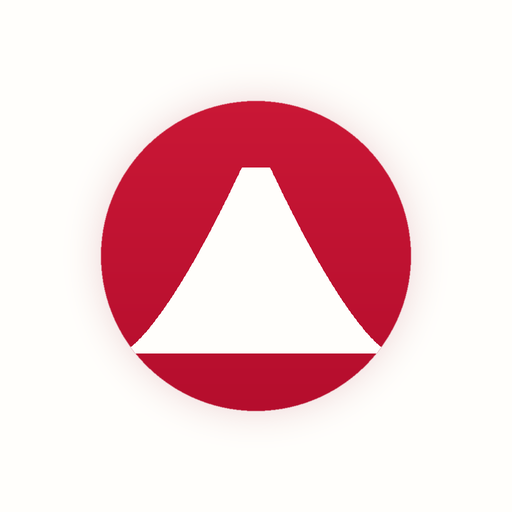
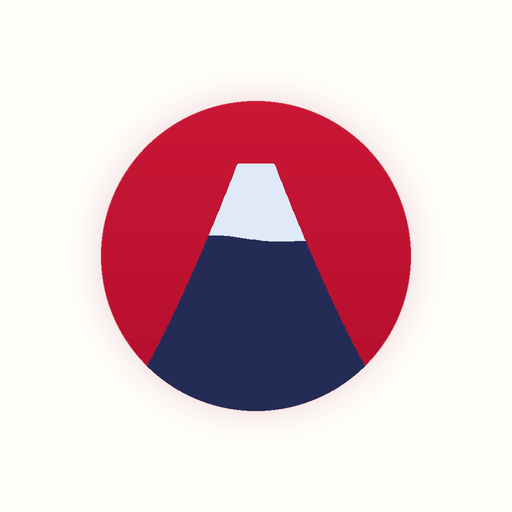
Page « To-do Selma » et icône au Fuji indigo
selma.html : les 10 billets attendus, repris automatiquement de
data.js, et les 12 points restés flous dans le carnet de route, en
oui / non / je ne sais pas avec un mot libre. Tout s'enregistre sur
son téléphone au fil de l'eau ; un bouton compose le récapitulatif
et ouvre le partage iOS — rien ne part sans son geste, et aucune
adresse n'est inscrite dans le dépôt.

Icône : le mont indigo et sa calotte, comme le bandeau du site.

Changed region(s): [[0.25, 0.3125, 0.75, 0.8125]]

diff --git a/selma.html b/selma.html
@@ -1,0 +1,276 @@
+<!doctype html>
+<html lang="fr">
+<head>
+<meta charset="utf-8">
+<meta name="viewport" content="width=device-width, initial-scale=1, viewport-fit=cover">
+<meta name="theme-color" content="#2C3A63" media="(prefers-color-scheme: light)">
+<meta name="theme-color" content="#141C33" media="(prefers-color-scheme: dark)">
+<title>To-do Selma · Japon 2026</title>
+<link rel="apple-touch-icon" href="icon-192.png"><link rel="icon" href="icon-192.png">
+<link rel="preconnect" href="https://fonts.googleapis.com">
+<link rel="preconnect" href="https://fonts.gstatic.com" crossorigin>
+<link href="https://fonts.googleapis.com/css2?family=Shippori+Mincho:wght@600;700&family=Zen+Kaku+Gothic+New:wght@400;500;700&display=swap" rel="stylesheet">
+<style>
+:root{
+  --momiji:#D2522F; --kaki:#E07A3E; --kin:#E0A944; --ai:#2C3A63; --ai2:#44548A;
+  --matcha:#6F9160; --sakura:#E79BB0;
+  --bg:#FBF6F0; --bg2:#F3EADF; --paper:#FFF; --paper2:#FFFCF8;
+  --ink:#2B2320; --mute:#8C8077; --line:#EDE2D6; --line2:#F5EDE3;
+  --sh:0 1px 2px rgba(74,48,28,.05), 0 6px 18px -10px rgba(74,48,28,.20);
+  --serif:"Shippori Mincho","Hiragino Mincho ProN",Georgia,serif;
+  --sans:"Zen Kaku Gothic New",-apple-system,"Helvetica Neue",Arial,sans-serif;
+  --safe-t:env(safe-area-inset-top,0px); --safe-b:env(safe-area-inset-bottom,0px);
+  --ease:cubic-bezier(.22,.92,.30,1);
+}
+@media (prefers-color-scheme:dark){:root{
+  --bg:#14100E; --bg2:#1C1613; --paper:#211A17; --paper2:#271F1A;
+  --ink:#F2E9E1; --mute:#A3948A; --line:#352A24; --line2:#2A211C;
+  --ai:#3C4C82; --ai2:#5465A2; --momiji:#E4693F; --kin:#E8B757; --matcha:#8BAC7A;
+  --sh:0 1px 2px rgba(0,0,0,.45), 0 6px 18px -10px rgba(0,0,0,.6);
+}}
+*{box-sizing:border-box;-webkit-tap-highlight-color:transparent}
+html,body{margin:0;min-height:100%}
+body{background:var(--bg);background-image:radial-gradient(1100px 520px at 50% -8%,var(--bg2),transparent 70%);
+  background-attachment:fixed;color:var(--ink);font-family:var(--sans);font-size:16px;line-height:1.5;
+  -webkit-font-smoothing:antialiased}
+h1,h2,h3{margin:0}
+.top{position:relative;overflow:hidden;padding:calc(var(--safe-t) + 30px) 22px 70px;color:#fff;
+  background:linear-gradient(155deg,#2C3A63 0%,#3C3C6E 42%,#7A3B55 100%)}
+@media (prefers-color-scheme:dark){.top{background:linear-gradient(155deg,#151D38 0%,#241F44 45%,#4A2437 100%)}}
+.top .glow{position:absolute;width:300px;height:300px;right:-110px;top:-130px;border-radius:50%;
+  background:radial-gradient(circle,#E8853C 0%,transparent 68%);opacity:.6}
+.top .in{position:relative;z-index:2;max-width:620px;margin:0 auto}
+.top h1{font-family:var(--serif);font-weight:700;font-size:clamp(27px,8vw,34px);line-height:1.1}
+.top p{margin:7px 0 0;opacity:.82;font-size:14px}
+.fuji{position:absolute;left:-1px;right:-1px;bottom:-1px;width:calc(100% + 2px);height:70px;display:block;z-index:1}
+.fuji .m{fill:var(--bg)} .fuji .n{fill:#D5E3F6}
+.fuji .r{fill:none;stroke:rgba(255,255,255,.22);stroke-width:1.4}
+main{position:relative;z-index:1;padding:4px 18px calc(110px + var(--safe-b));max-width:620px;margin:0 auto}
+.intro{font-size:14.5px;color:var(--mute);margin:18px 2px 20px}
+.intro b{color:var(--ink);font-weight:700}
+.jauge{display:flex;align-items:center;gap:12px;background:var(--paper);border:1px solid var(--line);
+  border-radius:18px;padding:14px 16px;margin:0 0 24px;box-shadow:var(--sh);font-size:13.5px;color:var(--mute)}
+.jauge .barre{flex:1;height:8px;border-radius:99px;background:var(--line2);overflow:hidden}
+.jauge .barre i{display:block;height:100%;border-radius:99px;width:0;
+  background:linear-gradient(90deg,var(--kin),var(--matcha));transition:width .5s var(--ease)}
+.jauge b{color:var(--ink);font-weight:700}
+h2.sec{display:flex;align-items:center;gap:11px;font-family:var(--serif);font-size:23px;font-weight:700;margin:30px 2px 4px}
+.sceau{flex:none;width:34px;height:34px;border-radius:11px;display:grid;place-items:center;
+  background:color-mix(in srgb,currentColor 14%,transparent);
+  box-shadow:inset 0 0 0 1px color-mix(in srgb,currentColor 18%,transparent)}
+.sceau svg{width:19px;height:19px;display:block}
+.sceau.s-bil{color:var(--kaki)} .sceau.s-pts{color:var(--ai2)}
+.sub{color:var(--mute);font-size:13.5px;margin:0 2px 16px}
+.carte{background:var(--paper);border:1px solid var(--line);border-radius:20px;padding:15px 17px;
+  margin-bottom:11px;box-shadow:var(--sh)}
+.carte.fait{border-color:color-mix(in srgb,var(--matcha) 42%,transparent);
+  background:color-mix(in srgb,var(--matcha) 6%,var(--paper))}
+.carte h3{font-size:15.5px;font-weight:700;line-height:1.35}
+.carte .quand{font-size:12.5px;color:var(--mute);margin-top:3px}
+.carte .pourquoi{font-size:13px;color:var(--mute);margin-top:7px;line-height:1.45}
+.choix{display:flex;gap:7px;flex-wrap:wrap;margin-top:12px}
+.choix button{font:600 13.5px var(--sans);padding:9px 15px;border-radius:999px;cursor:pointer;
+  border:1px solid var(--line);background:var(--paper2);color:var(--mute);transition:all .18s var(--ease)}
+.choix button:active{transform:scale(.94)}
+.choix button[aria-pressed="true"]{color:#fff;border-color:transparent}
+.choix button[data-v="oui"][aria-pressed="true"]{background:linear-gradient(135deg,var(--matcha),#8FAE7C)}
+.choix button[data-v="non"][aria-pressed="true"]{background:linear-gradient(135deg,var(--momiji),var(--kaki))}
+.choix button[data-v="?"][aria-pressed="true"]{background:linear-gradient(135deg,var(--ai),var(--ai2))}
+textarea{width:100%;margin-top:10px;font:400 13.5px/1.5 var(--sans);color:var(--ink);background:var(--paper2);
+  border:1px solid var(--line);border-radius:13px;padding:10px 12px;resize:vertical;min-height:40px}
+textarea::placeholder{color:var(--mute)}
+textarea:focus{outline:2px solid color-mix(in srgb,var(--ai2) 45%,transparent);outline-offset:1px}
+.barreBas{position:fixed;left:0;right:0;bottom:0;z-index:20;padding:12px 18px calc(12px + var(--safe-b));
+  background:color-mix(in srgb,var(--bg) 86%,transparent);backdrop-filter:blur(16px);
+  -webkit-backdrop-filter:blur(16px);border-top:1px solid var(--line)}
+.barreBas .dedans{max-width:620px;margin:0 auto;display:flex;align-items:center;gap:12px}
+.btn{flex:1;display:inline-flex;align-items:center;justify-content:center;gap:9px;font:700 15px var(--sans);
+  padding:15px 20px;border-radius:999px;border:0;cursor:pointer;text-decoration:none;
+  background:linear-gradient(135deg,var(--momiji),var(--kaki));color:#fff;
+  box-shadow:0 8px 20px -9px rgba(210,82,47,.85);transition:transform .18s}
+.btn:active{transform:scale(.97)}
+.btn svg{width:18px;height:18px}
+.etat{font-size:12px;color:var(--mute);text-align:center;margin:9px 0 0;min-height:15px}
+.pied{margin-top:30px;font-size:12.5px;color:var(--mute);text-align:center;line-height:1.6}
+@media (prefers-reduced-motion:reduce){*{animation:none!important;transition:none!important}}
+</style>
+</head>
+<body>
+<header class="top">
+  <span class="glow"></span>
+  <div class="in">
+    <h1>To-do Selma</h1>
+    <p>Merci&nbsp;! Il reste quelques trucs à confirmer pour le Japon.</p>
+  </div>
+  <svg class="fuji" viewBox="0 0 390 70" preserveAspectRatio="none" aria-hidden="true">
+    <path class="r" d="M-2 59 Q75 57 125 42 Q165 20 187 10 Q195 5.5 203 10 Q225 20 265 42 Q315 57 392 59"/>
+    <path class="m" d="M-2 70V59 Q75 57 125 42 Q165 20 187 10 Q195 5.5 203 10 Q225 20 265 42 Q315 57 392 59 V70Z"/>
+    <path class="n" d="M161 23.5 Q176 15 187 10 Q195 5.5 203 10 Q214 15 229 23.5
+      L223 20.4 L218 25.6 L212 21.3 L206.5 27 L201 21.8 L196 25.1 L190.5 20.9 L185 26.5
+      L179.5 21.5 L174 24.7 L168 21.1 L163.5 24.2Z"/>
+  </svg>
+</header>
+
+<main>
+  <p class="intro">Tes réponses <b>s'enregistrent toutes seules</b> sur ton téléphone au fur et à mesure — tu peux fermer la page et revenir plus tard. Quand tu as fini, le bouton en bas prépare un message récapitulatif à envoyer à Selma. <b>Les billets eux-mêmes</b>, joins-les simplement au message.</p>
+
+  <div class="jauge"><div class="barre"><i id="barre"></i></div><span id="compte"></span></div>
+
+  <h2 class="sec"><span class="sceau s-bil"><svg viewBox="0 0 24 24" fill="none" stroke="currentColor" stroke-width="1.85" stroke-linecap="round" stroke-linejoin="round"><path d="M4 9V7a1.6 1.6 0 0 1 1.6-1.6h12.8A1.6 1.6 0 0 1 20 7v2a2.4 2.4 0 0 0 0 6v2a1.6 1.6 0 0 1-1.6 1.6H5.6A1.6 1.6 0 0 1 4 17v-2a2.4 2.4 0 0 0 0-6z"/><path d="M14.2 6.2v1.6M14.2 11.2v1.6M14.2 16.2v1.6"/></svg></span>Les billets</h2>
+  <p class="sub">Coche ce que tu as déjà en main.</p>
+  <div id="billets"></div>
+
+  <h2 class="sec"><span class="sceau s-pts"><svg viewBox="0 0 24 24" fill="none" stroke="currentColor" stroke-width="1.85" stroke-linecap="round" stroke-linejoin="round"><path d="M9.2 9.2a2.9 2.9 0 1 1 3.9 2.7c-.7.3-1.1 1-1.1 1.7v.6"/><path d="M12 18.2h.01"/><circle cx="12" cy="12" r="9.2"/></svg></span>Les points à trancher</h2>
+  <p class="sub">Oui, non, ou « je ne sais pas » — et un mot si tu veux préciser.</p>
+  <div id="points"></div>
+
+  <div class="carte" id="brut" hidden>
+    <h3>Ton récapitulatif</h3>
+    <div class="pourquoi">Ton téléphone n'a pas voulu ouvrir le partage. Copie ce texte et colle-le dans ton message.</div>
+    <textarea id="brutTexte" readonly rows="12" style="margin-top:12px"></textarea>
+  </div>
+
+  <p class="pied">Rien de tout ça ne part automatiquement : tant que tu n'as pas touché le bouton, tes réponses restent sur ton téléphone.</p>
+</main>
+
+<div class="barreBas">
+  <div class="dedans">
+    <button class="btn" id="envoyer">
+      <svg viewBox="0 0 24 24" fill="none" stroke="currentColor" stroke-width="2" stroke-linecap="round" stroke-linejoin="round"><path d="M21.5 2.5 11 13M21.5 2.5l-6.8 19-3.7-8.5L2.5 9.3z"/></svg>
+      Tout envoyer à Selma
+    </button>
+  </div>
+  <p class="etat" id="etat"></p>
+</div>
+
+<script src="data.js"></script>
+<script>
+(function () {
+  var $ = function (s) { return document.querySelector(s); };
+  var esc = function (s) { return String(s == null ? '' : s).replace(/[&<>"']/g, function (c) {
+    return {'&':'&amp;','<':'&lt;','>':'&gt;','"':'&quot;',"'":'&#39;'}[c]; }); };
+  var CLE = 'japon.todo.selma';
+
+  // Les billets viennent de data.js : la liste reste juste quand le voyage bouge.
+  var fLong = new Intl.DateTimeFormat('fr-FR', {day:'numeric', month:'long'});
+  var BILLETS = (typeof ACTIVITES !== 'undefined' ? ACTIVITES : [])
+    .filter(function (a) { return a.billet; })
+    .map(function (a) {
+      return { id: 'b-' + a.date + '-' + a.titre.replace(/[^a-zA-Z0-9]+/g, '').slice(0, 20),
+               titre: a.titre, quand: fLong.format(new Date(a.date + 'T00:00:00')) };
+    });
+
+  var POINTS = [
+    {id:'p1',  q:"Le logement de Tokyo du 14 au 17, c'est bien la Villa Roppongi ?", d:"Le carnet parle d'un « 26 » à 8 min de la station, pour 5 personnes."},
+    {id:'p2',  q:"La nuit du 18 à Kawaguchiko est-elle réservée ?", d:"La réservation du Fujisan Kingyo ne couvre que le 19 au 20."},
+    {id:'p3',  q:"À Kyoto du 20 au 25, on garde le Rokuhara Inn ?", d:"Il y a deux réservations en parallèle : Daiya Ryokan et Rokuhara Inn."},
+    {id:'p4',  q:"Les journées du 16 et du 17 octobre sont-elles bien inversées ?", d:"Palais impérial le samedi 17 : ses jardins ferment le lundi et le vendredi."},
+    {id:'p5',  q:"Syan est-il bien sur la réservation du vol retour ?", d:"La capture ne montrait que le passager 1."},
+    {id:'p6',  q:"Selma a-t-elle sa propre réservation sur le vol aller ?", d:"Le billet AF186 vu est au nom d'une autre Selma."},
+    {id:'p7',  q:"Le vol Narita → Hanoï dure-t-il 4 h 15 ?", d:"09h30 → 13h45 avec 2 h de décalage donne 4 h 15, alors que le carnet dit 6 h 15."},
+    {id:'p8',  q:"Le « Naruto Park » du 19, c'est bien ce nom-là ?", d:"Je ne l'ai pas trouvé avec certitude du côté de Kawaguchiko."},
+    {id:'p9',  q:"Le « 30-40 » noté pour Universal, ce sont des minutes de trajet ?", d:"Ça pourrait aussi être un nombre d'attractions."},
+    {id:'p10', q:"Le Jidai Matsuri part-il bien du Palais impérial vers midi ?", d:"Le 22 octobre, à confirmer sur le programme de l'année."},
+    {id:'p11', q:"Quel Round One à Osaka ?", d:"Il y en a plusieurs : Sennichimae, Umeda…", libre:true},
+    {id:'p12', q:"Le voyage se termine bien le 3 novembre ?", d:"Stippl affiche le voyage jusqu'au 6 novembre."}
+  ];
+
+  var etat = {};
+  try { etat = JSON.parse(localStorage.getItem(CLE) || '{}') || {}; } catch (e) { etat = {}; }
+  var garder = function () { try { localStorage.setItem(CLE, JSON.stringify(etat)); } catch (e) {} };
+
+  function rendre() {
+    $('#billets').innerHTML = BILLETS.map(function (b) {
+      var ok = etat[b.id] === 'oui';
+      return '<div class="carte' + (ok ? ' fait' : '') + '" data-c="' + b.id + '">' +
+        '<h3>' + esc(b.titre) + '</h3><div class="quand">' + esc(b.quand) + '</div>' +
+        '<div class="choix"><button type="button" data-id="' + b.id + '" data-v="oui" aria-pressed="' + ok + '">Je l’ai</button>' +
+        '<button type="button" data-id="' + b.id + '" data-v="non" aria-pressed="' + (etat[b.id] === 'non') + '">Pas encore</button></div></div>';
+    }).join('') || '<div class="carte"><h3>Aucun billet à suivre pour l’instant.</h3></div>';
+
+    $('#points').innerHTML = POINTS.map(function (p) {
+      var r = etat[p.id], fait = p.libre ? !!(etat[p.id + '-n'] || '').trim() : !!r;
+      var boutons = p.libre ? '' : '<div class="choix">' +
+        ['oui','non','?'].map(function (v) {
+          return '<button type="button" data-id="' + p.id + '" data-v="' + v + '" aria-pressed="' + (r === v) + '">' +
+            (v === 'oui' ? 'Oui' : v === 'non' ? 'Non' : 'Je ne sais pas') + '</button>'; }).join('') + '</div>';
+      return '<div class="carte' + (fait ? ' fait' : '') + '" data-c="' + p.id + '">' +
+        '<h3>' + esc(p.q) + '</h3><div class="pourquoi">' + esc(p.d) + '</div>' + boutons +
+        '<textarea data-note="' + p.id + '" placeholder="' + (p.libre ? 'Ta réponse…' : 'Une précision ? (facultatif)') + '">' +
+        esc(etat[p.id + '-n'] || '') + '</textarea></div>';
+    }).join('');
+
+    var total = BILLETS.length + POINTS.length;
+    var faits = BILLETS.filter(function (b) { return etat[b.id]; }).length +
+                POINTS.filter(function (p) { return p.libre ? (etat[p.id + '-n'] || '').trim() : etat[p.id]; }).length;
+    $('#barre').style.width = total ? (faits / total * 100) + '%' : '0';
+    $('#compte').innerHTML = '<b>' + faits + '</b> sur ' + total + ' renseigné' + (faits > 1 ? 's' : '');
+  }
+
+  document.addEventListener('click', function (ev) {
+    var b = ev.target.closest('button[data-id]');
+    if (!b) return;
+    var id = b.dataset.id;
+    etat[id] = (etat[id] === b.dataset.v) ? undefined : b.dataset.v;   // re-toucher annule
+    if (etat[id] === undefined) delete etat[id];
+    garder();
+    var y = window.scrollY; rendre(); window.scrollTo(0, y);
+  });
+  document.addEventListener('input', function (ev) {
+    var t = ev.target.closest('textarea[data-note]');
+    if (!t) return;
+    etat[t.dataset.note + '-n'] = t.value; garder();
+    var p = POINTS.filter(function (x) { return x.id === t.dataset.note; })[0];
+    if (p && p.libre) t.closest('.carte').classList.toggle('fait', !!t.value.trim());
+    var total = BILLETS.length + POINTS.length;
+    var faits = BILLETS.filter(function (b) { return etat[b.id]; }).length +
+                POINTS.filter(function (p) { return p.libre ? (etat[p.id + '-n'] || '').trim() : etat[p.id]; }).length;
+    $('#barre').style.width = (faits / total * 100) + '%';
+    $('#compte').innerHTML = '<b>' + faits + '</b> sur ' + total + ' renseigné' + (faits > 1 ? 's' : '');
+  });
+
+  function recap() {
+    var L = ['To-do Selma — Japon 2026', 'Mis à jour le ' + new Date().toLocaleDateString('fr-FR'), ''];
+    L.push('BILLETS');
+    BILLETS.forEach(function (b) {
+      var r = etat[b.id];
+      L.push((r === 'oui' ? '[x] ' : r === 'non' ? '[ ] ' : '[?] ') + b.titre + ' — ' + b.quand);
+    });
+    L.push('', 'POINTS À TRANCHER');
+    POINTS.forEach(function (p) {
+      var r = etat[p.id], n = (etat[p.id + '-n'] || '').trim();
+      var rep = p.libre ? (n || 'pas encore répondu')
+              : (r === 'oui' ? 'OUI' : r === 'non' ? 'NON' : r === '?' ? 'je ne sais pas' : 'pas encore répondu');
+      L.push('• ' + p.q);
+      L.push('  → ' + rep + (!p.libre && n ? ' — ' + n : ''));
+    });
+    L.push('', 'Les billets suivent dans la conversation.');
+    return L.join('\n');
+  }
+
+  $('#envoyer').addEventListener('click', function () {
+    var texte = recap();
+    var dire = function (m) { $('#etat').textContent = m; setTimeout(function () { $('#etat').textContent = ''; }, 4000); };
+    if (navigator.share) {
+      navigator.share({title: 'To-do Selma — Japon 2026', text: texte})
+        .then(function () { dire('Envoyé, merci !'); })
+        .catch(function (e) { if (e && e.name !== 'AbortError') dire('Envoi annulé'); });
+      return;
+    }
+    var montrer = function (m) {
+      var z = $('#brutTexte'); z.value = texte; $('#brut').hidden = false;
+      $('#brut').scrollIntoView({block: 'center', behavior: 'smooth'});
+      z.focus(); z.setSelectionRange(0, z.value.length); dire(m);
+    };
+    if (navigator.clipboard && navigator.clipboard.writeText) {
+      navigator.clipboard.writeText(texte).then(
+        function () { dire('Récapitulatif copié — colle-le dans ton message'); },
+        function () { montrer('Copie refusée : le texte est en bas, déjà sélectionné'); });
+    } else { montrer('Le texte est en bas, déjà sélectionné'); }
+  });
+
+  rendre();
+})();
+</script>
+</body>
+</html>

diff --git a/app.js b/app.js
@@ -281,8 +281,9 @@ function wicon(k, w) {
   const attendus = ACTS.filter(a => a.billet === 'attendu' && !passe(a.date)).length;
   const pris = ACTS.filter(a => a.billet === 'pris' && !passe(a.date)).length;
   if (attendus || pris) $('#billets').innerHTML =
-    `<div class="recap">${I.ticket}<span>${attendus ? `<b>${attendus}</b> billet${attendus > 1 ? 's' : ''} à récupérer auprès de Selma` : ''}`
-    + `${attendus && pris ? ' · ' : ''}${pris ? `<b>${pris}</b> en main` : ''}</span></div>`;
+    `<a class="recap" href="selma.html">${I.ticket}<span>${attendus ? `<b>${attendus}</b> billet${attendus > 1 ? 's' : ''} à récupérer auprès de Selma` : ''}`
+    + `${attendus && pris ? ' · ' : ''}${pris ? `<b>${pris}</b> en main` : ''}<em>Ouvrir sa to-do</em></span>`
+    + I.fleche.replace('<svg ', '<svg class="f" ') + `</a>`;
 
   $('#acts').addEventListener('click', ev => {
     const b = ev.target.closest('[data-ics]'); if (!b) return;

diff --git a/index.html b/index.html
@@ -276,6 +276,10 @@ main{position:relative;z-index:1;padding:4px 16px calc(104px + var(--safe-b));ma
   background:var(--paper2);border:1px solid var(--line);font-size:13px;color:var(--mute);box-shadow:var(--sh-s)}
 .recap svg{width:16px;height:16px;flex:none;color:var(--kaki)}
 .recap b{color:var(--ink);font-weight:700}
+.recap{text-decoration:none;transition:transform .18s var(--ease)}
+.recap:active{transform:scale(.99)}
+.recap em{display:block;font-style:normal;font-size:12px;color:var(--kaki);font-weight:600;margin-top:2px}
+.recap .f{width:15px;height:15px;flex:none;margin-left:auto;color:var(--mute)}
 .walk.l1{color:var(--matcha)}.walk.l2{color:var(--kin)}.walk.l3{color:var(--kaki)}.walk.l4{color:var(--momiji)}
 .tag.walk{background:var(--line2);padding:5px 9px;align-items:center}
 .tag.walk i{align-self:flex-end}

diff --git a/sw.js b/sw.js
@@ -1,7 +1,7 @@
 // Garde l'app disponible hors ligne (métro, avion…).
 // Changez VERSION à chaque mise à jour pour forcer le rafraîchissement.
-const VERSION = 'japon-v14';
-const FILES = ['./', 'index.html', 'installer.html', 'app.js', 'data.js', 'icones-apps.js', 'manifest.webmanifest', 'icon-192.png', 'icon-512.png'];
+const VERSION = 'japon-v15';
+const FILES = ['./', 'index.html', 'installer.html', 'selma.html', 'app.js', 'data.js', 'icones-apps.js', 'manifest.webmanifest', 'icon-192.png', 'icon-512.png'];
 
 self.addEventListener('install', e => e.waitUntil(
   caches.open(VERSION).then(c => c.addAll(FILES)).then(() => self.skipWaiting())
